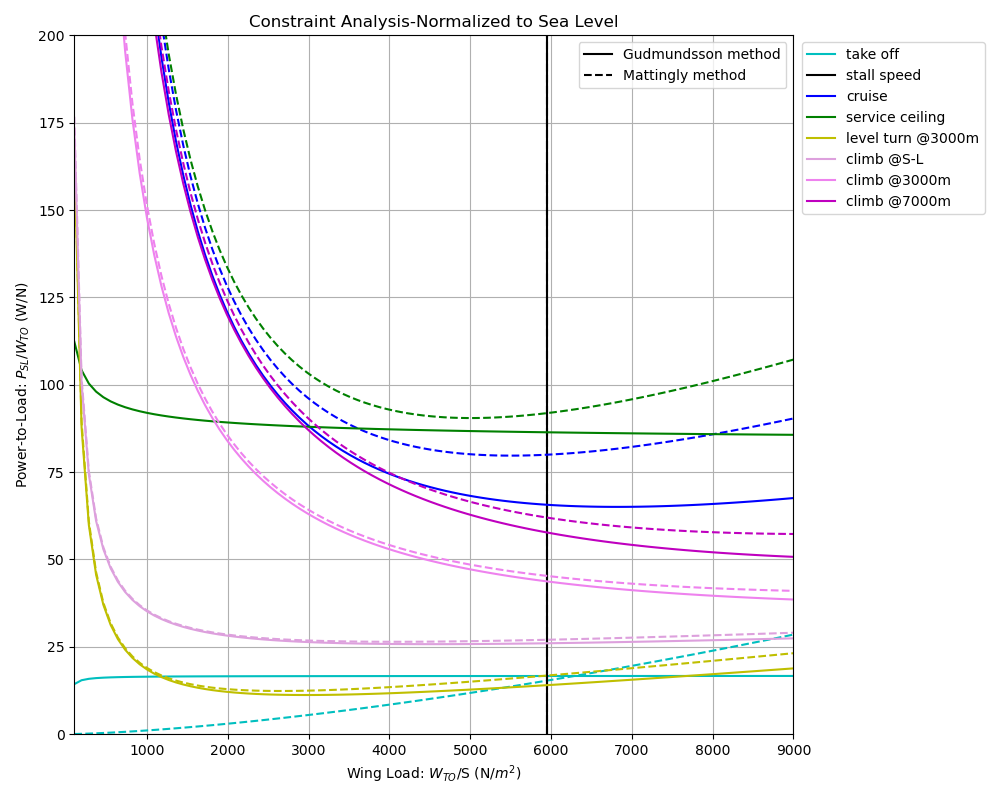
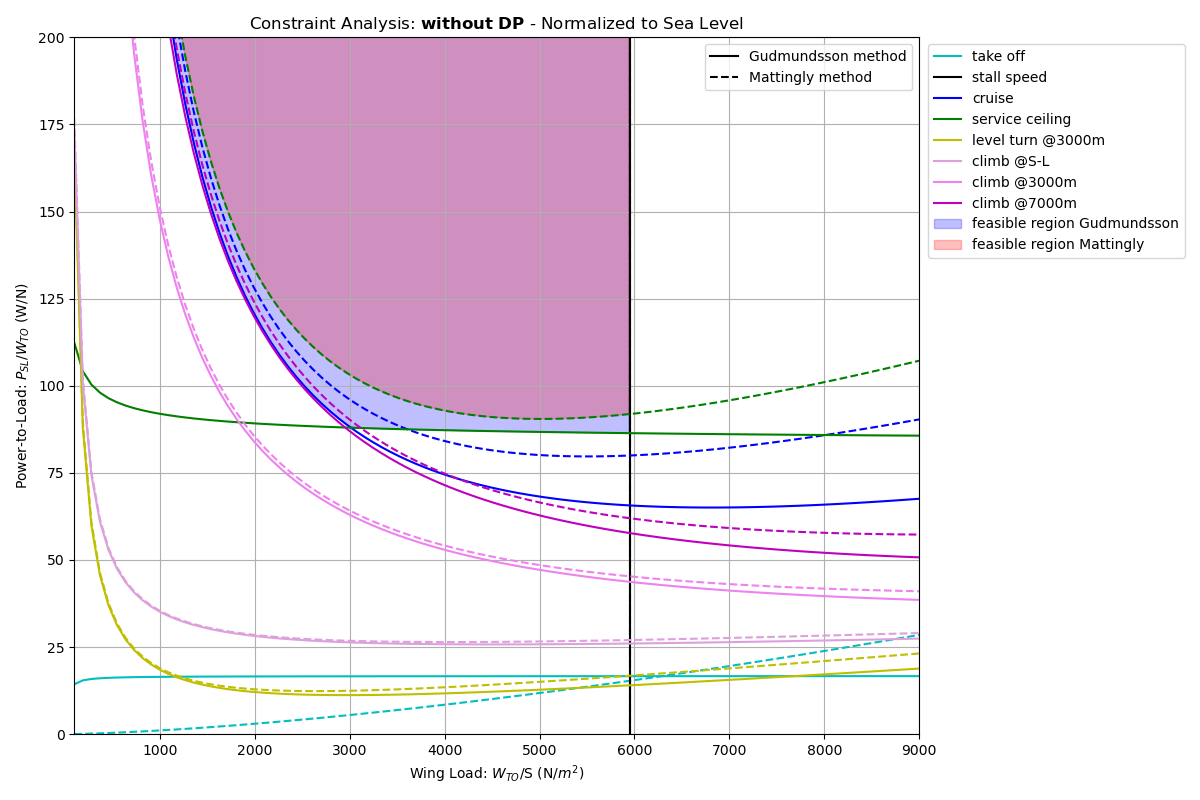
Default Changelist

diff --git a/Sizing_Method/ConstrainsAnalysis/ConstrainsAnalysisPD.py b/Sizing_Method/ConstrainsAnalysis/ConstrainsAnalysisPD.py
@@ -6,10 +6,13 @@ import matplotlib.pylab as plt
 import Sizing_Method.Other.US_Standard_Atmosphere_1976 as atm
 import Sizing_Method.Aerodynamics.ThrustLapse as thrust_lapse
 import Sizing_Method.Aerodynamics.Aerodynamics as ad
+import Sizing_Method.ConstrainsAnalysis.ConstrainsAnalysis as ca
+
 
 """
 The unit use is IS standard
 """
+
 
 class ConstrainsAnalysis_Mattingly_Method_with_DP:
     """This is a power-based master constraints analysis"""
@@ -55,14 +58,16 @@ class ConstrainsAnalysis_Mattingly_Method_with_DP:
         self.coefficient = self.tau * self.beta * self.v / self.alpha
 
         # Estimation of ΔCL and ΔCD
-        pd = ad.aerodynamics_with_pd(self.h, self.v, Hp=0.5, n=n, W_S=self.w_s)
+        pd = ad.aerodynamics_with_pd(self.h, self.v, Hp=self.hp, n=n, W_S=self.w_s)
         self.q = 0.5 * self.rho * self.v ** 2
         self.cl = self.beta * self.w_s / self.q
+        # print(self.cl)
         self.delta_cl = pd.delta_lift_coefficient(self.cl)
         self.delta_cd0 = pd.delta_CD_0()
 
     def master_equation(self, n, dh_dt, dV_dt):
         cl = self.cl*n + self.delta_cl
+
         cd = self.k1 * cl ** 2 + self.k2 * cl + self.cd0 + self.cdr + self.delta_cd0
         p_w = self.coefficient * (self.q / (self.beta * self.w_s) * cd + dh_dt / self.v + dV_dt / self.g0)
         return p_w
@@ -153,7 +158,7 @@ class ConstrainsAnalysis_Gudmundsson_Method_with_DP:
         self.coefficient = self.tau * self.beta * self.v / self.alpha
 
         # Estimation of ΔCL and ΔCD
-        pd = ad.aerodynamics_with_pd(self.h, self.v, Hp=0.5, n=n, W_S=self.w_s)
+        pd = ad.aerodynamics_with_pd(self.h, self.v, Hp=self.hp, n=n, W_S=self.w_s)
         self.q = 0.5 * self.rho * self.v ** 2
         cl = self.beta * self.w_s / self.q
         self.delta_cl = pd.delta_lift_coefficient(cl)
@@ -175,11 +180,11 @@ class ConstrainsAnalysis_Gudmundsson_Method_with_DP:
         self.cl_to = cl_to + self.delta_cl
 
     def cruise(self):
-        p_w = self.q * self.cd_min / self.w_s + self.k *self.cl
+        p_w = self.q / self.w_s * (self.cd_min + self.k * self.cl**2)
         return p_w * self.coefficient
 
     def climb(self, roc):
-        p_w = roc / self.v + self.q * self.cd_min / self.w_s + self.k *self.cl
+        p_w = roc / self.v + self.q * self.cd_min / self.w_s + self.k * self.cl
         return p_w * self.coefficient
 
     def level_turn(self, turn_rate=3, v=100):
@@ -199,8 +204,11 @@ class ConstrainsAnalysis_Gudmundsson_Method_with_DP:
         return p_w * self.coefficient
 
     def service_ceiling(self, roc=0.5):
-        p_w = roc / (2 / self.rho * self.w_s * (self.k / (3 * self.cd_min)) ** 0.5) ** 0.5 + 4 * (
-                self.k * self.cd_min / 3) ** 0.5
+        vy = (2/self.rho*self.w_s*(self.k/(3*self.cd_min))**0.5)**0.5
+        q = 0.5*self.rho*vy**2
+        p_w = roc/vy + q/self.w_s*(self.cd_min+self.k*(self.w_s/q + self.delta_cl)**2)
+        # p_w = roc / (2 / self.rho * self.w_s * (self.k / (3 * self.cd_min)) ** 0.5) ** 0.5 + 4 * (
+        #         self.k * self.cd_min / 3) ** 0.5
         return p_w * self.coefficient
 
     def stall_speed(self, V_stall_to=65, Cl_max_to=2.3):
@@ -226,40 +234,69 @@ if __name__ == "__main__":
                            [11900, 230, 0.948], [3000, 100, 0.984], [0, 100, 0.984],
                            [3000, 200, 0.975], [7000, 230, 0.96]])
     color = ['c', 'k', 'b', 'g', 'y', 'plum', 'violet', 'm']
+    label = ['feasible region with PD', 'feasible region with PD','feasible region Gudmundsson',
+             'feasible region without PD', 'feasible region without PD', 'feasible region Mattingly']
     m = constrains.shape[0]
     p_w = np.zeros([2 * m, n])
 
-    plt.figure(figsize=(10, 8))
-    for i in range(m):
-        for j in range(n):
-            h = constrains[i, 0]
-            v = constrains[i, 1]
-            beta = constrains[i, 2]
-            problem1 = ConstrainsAnalysis_Gudmundsson_Method_with_DP(h, v, beta, w_s[j])
-            problem2 = ConstrainsAnalysis_Mattingly_Method_with_DP(h, v, beta, w_s[j])
+    for k in range(3):
+        plt.figure(figsize=(12, 8))
+        for i in range(m):
+            for j in range(n):
+                h = constrains[i, 0]
+                v = constrains[i, 1]
+                beta = constrains[i, 2]
 
-            if i >= 5:
-                p_w[i, j] = problem1.allFuncs[-1](problem1, roc=15 - 5 * (i - 5))
-                p_w[i + m, j] = problem2.allFuncs[-1](problem2, roc=15 - 5 * (i - 5))
+                if k == 0:
+                    problem1 = ConstrainsAnalysis_Gudmundsson_Method_with_DP(h, v, beta, w_s[j])
+                    problem2 = ca.ConstrainsAnalysis_Gudmundsson_Method(h, v, beta, w_s[j])
+                    plt.title(r'Constraint Analysis: $\bf{Gudmundsson-Method}$ - Normalized to Sea Level')
+                elif k ==1:
+                    problem1 = ConstrainsAnalysis_Mattingly_Method_with_DP(h, v, beta, w_s[j])
+                    problem2 = ca.ConstrainsAnalysis_Mattingly_Method(h, v, beta, w_s[j])
+                    plt.title(r'Constraint Analysis: $\bf{Mattingly-Method}$ - Normalized to Sea Level')
+                else:
+                    problem1 = ConstrainsAnalysis_Gudmundsson_Method_with_DP(h, v, beta, w_s[j])
+                    problem2 = ConstrainsAnalysis_Mattingly_Method_with_DP(h, v, beta, w_s[j])
+                    plt.title(r'Constraint Analysis: $\bf{with}$ $\bf{DP}$ - Normalized to Sea Level')
+
+                if i >= 5:
+                    p_w[i, j] = problem1.allFuncs[-1](problem1, roc=15 - 5 * (i - 5))
+                    p_w[i + m, j] = problem2.allFuncs[-1](problem2, roc=15 - 5 * (i - 5))
+                else:
+                    p_w[i, j] = problem1.allFuncs[i](problem1)
+                    p_w[i + m, j] = problem2.allFuncs[i](problem2)
+
+            if i == 1:
+                l1a, = plt.plot(p_w[i, :], np.linspace(0, 250, n), color=color[i], label=constrains_name[i])
+                l1b, = plt.plot(p_w[i + m, :], np.linspace(0, 250, n), color=color[i], linestyle='--')
+
+                if k != 2:
+                    l1 = plt.legend([l1a, l1b], ['with DP', 'without DP'], loc="upper right")
+                else:
+                    l1 = plt.legend([l1a, l1b], ['Gudmundsson method', 'Mattingly method'], loc="upper right")
+
             else:
-                p_w[i, j] = problem1.allFuncs[i](problem1)
-                p_w[i + m, j] = problem2.allFuncs[i](problem2)
+                plt.plot(w_s, p_w[i, :], color=color[i], label=constrains_name[i])
+                plt.plot(w_s, p_w[i + m, :], color=color[i], linestyle='--')
 
-        if i == 1:
-            pa, = plt.plot(p_w[i, :], np.linspace(0, 250, n), color=color[i], label=constrains_name[i])
-            pb, = plt.plot(p_w[i + m, :], np.linspace(0, 250, n), color=color[i], linestyle='--')
-            l1 = plt.legend([pa, pb], ['Gudmundsson method', 'Mattingly method'], loc="upper right")
+        p_w[1, :] = 200 / (p_w[1, -1] - p_w[1, 20]) * (w_s - p_w[1, 2])
+
+        if k != 2:
+            p_w[1 + m, :] = 10 ** 10 * (w_s - p_w[1 + m, 2])
         else:
-            plt.plot(w_s, p_w[i, :], color=color[i], label=constrains_name[i])
-            plt.plot(w_s, p_w[i + m, :], color=color[i], linestyle='--')
+            p_w[1 + m, :] = 200 / (p_w[1+m, -1] - p_w[1+m, 20]) * (w_s - p_w[1 + m, 2])
 
-    plt.xlabel('Wing Load: $W_{TO}$/S (N/${m^2}$)')
-    plt.ylabel('Power-to-Load: $P_{SL}$/$W_{TO}$ (W/N)')
-    plt.title('Constraint Analysis-Normalized to Sea Level')
-    plt.legend(bbox_to_anchor=(1.002, 1), loc="upper left")
-    plt.gca().add_artist(l1)
-    plt.xlim(100, 9000)
-    plt.ylim(0, 200)
-    plt.tight_layout()
-    plt.grid()
-    plt.show()
+        plt.fill_between(w_s, np.amax(p_w[0:m - 1, :], axis=0), 200, color='b', alpha=0.25,
+                        label=label[k])
+        plt.fill_between(w_s, np.amax(p_w[m:2 * m - 1, :], axis=0), 200, color='r', alpha=0.25,
+                        label=label[k+3])
+        plt.xlabel('Wing Load: $W_{TO}$/S (N/${m^2}$)')
+        plt.ylabel('Power-to-Load: $P_{SL}$/$W_{TO}$ (W/N)')
+        plt.legend(bbox_to_anchor=(1.002, 1), loc="upper left")
+        plt.gca().add_artist(l1)
+        plt.xlim(100, 9000)
+        plt.ylim(0, 200)
+        plt.tight_layout()
+        plt.grid()
+        plt.show()

diff --git a/Sizing_Method/ConstrainsAnalysis/ConstrainsAnalysis.py b/Sizing_Method/ConstrainsAnalysis/ConstrainsAnalysis.py
@@ -180,8 +180,24 @@ class ConstrainsAnalysis_Gudmundsson_Method:
         return p_w * self.coefficient
 
     def service_ceiling(self, roc=0.5):
+        """
+        t_w = 0.3
+        s = 124
+        cd_max = 0.04
+
+        l = 0.5 * self.rho * self.v ** 2 * s * self.w_s / self.q
+        d_max = 0.5 * self.rho * self.v ** 2 * s * cd_max
+
+        # eqaution 18-24: Airspeed for Best ROC for a Jet
+        vy = (t_w * self.w_s / (3 * self.rho * self.cd_min) * (1 + (1 + 3 / (l * d_max ** 2 * t_w ** 2)) ** 0.5)) ** 0.5
+
+        q = 0.5 * self.rho * vy ** 2
+
+        p_w = roc / self.v + q / self.w_s * (self.cd_min + self.k * (self.w_s / q) ** 2)
+        """
+
         p_w = roc / (2 / self.rho * self.w_s * (self.k / (3 * self.cd_min)) ** 0.5) ** 0.5 + 4 * (
-                self.k * self.cd_min / 3) ** 0.5
+               self.k * self.cd_min / 3) ** 0.5
         return p_w * self.coefficient
 
     def stall_speed(self, V_stall_to=65, Cl_max_to=2.3):
@@ -301,7 +317,7 @@ if __name__ == "__main__":
     m = constrains.shape[0]
     p_w = np.zeros([2 * m, n])
 
-    plt.figure(figsize=(10, 8))
+    plt.figure(figsize=(12, 8))
     for i in range(m):
         for j in range(n):
             h = constrains[i, 0]
@@ -325,9 +341,16 @@ if __name__ == "__main__":
             plt.plot(w_s, p_w[i, :], color=color[i], label=constrains_name[i])
             plt.plot(w_s, p_w[i + m, :], color=color[i], linestyle='--')
 
+    p_w[1, :] = 10 ** 10 * (w_s - p_w[1, 2])
+
+    p_w[1 + m, :] = 10 ** 10 * (w_s - p_w[1 + m, 2])
+    plt.fill_between(w_s, np.amax(p_w[0:m - 1, :], axis=0), 200, color='b', alpha=0.25,
+                     label='feasible region Gudmundsson')
+    plt.fill_between(w_s, np.amax(p_w[m:2 * m - 1, :], axis=0), 200, color='r', alpha=0.25,
+                     label='feasible region Mattingly')
     plt.xlabel('Wing Load: $W_{TO}$/S (N/${m^2}$)')
     plt.ylabel('Power-to-Load: $P_{SL}$/$W_{TO}$ (W/N)')
-    plt.title('Constraint Analysis-Normalized to Sea Level')
+    plt.title(r'Constraint Analysis: $\bf{without}$ $\bf{DP}$ - Normalized to Sea Level')
     plt.legend(bbox_to_anchor=(1.002, 1), loc="upper left")
     plt.gca().add_artist(l1)
     plt.xlim(100, 9000)

diff --git a/Sizing_Method/Aerodynamics/Aerodynamics.py b/Sizing_Method/Aerodynamics/Aerodynamics.py
@@ -83,7 +83,7 @@ class aerodynamics_with_pd:
     """Estimation of ΔCL and ΔCD"""
 
     def __init__(self, altitude, velocity, Hp, n, W_S, P_W=90, sweep_angle=25.0,
-                 S=124.0, b=35.8, delta_b=0.5, delta_Dp=0.1, xp=0.5, beta=0.8, AOA_p=0.0, Cf=0.009):
+                 S=124.0, b=35.8, delta_b=0.64, delta_Dp=0.1, xp=0.5, beta=0.6, AOA_p=0.0, Cf=0.009):
         """
 
         :param Hp: P_motor/P_total
@@ -131,6 +131,14 @@ class aerodynamics_with_pd:
         # thrust coefficient Tc of the DP propulsion
         # reference 1: Equation 24
         tc = 1 / self.n * Hp * self.t_w / (self.rho * self.v ** 2 * dp2w)
+
+        # Actuator disk theory shows that there is a maximum theoretical propulsive efficiency
+        # for a given thrust coefficient
+        ndp_isolated = 0.76
+        tc_max = np.pi / 8 * ((2 / ndp_isolated - 1) ** 2 - 1)
+
+        if tc >= tc_max:
+            tc = tc_max
 
         # axial induction factor at the propeller disk (ap) as a
         # function of the propeller thrust coefficient, from the actuator disk theory:

diff --git a/Sizing_Method/Aerodynamics/Aeropropulsive_Interaction_Model.py b/Sizing_Method/Aerodynamics/Aeropropulsive_Interaction_Model.py
@@ -90,7 +90,17 @@ class Aero_propulsion:
         # thrust coefficient Tc of the DP propulsion
         # reference 1: Equation 24
         tc = 1 / self.n * Hp * self.t_w / (self.rho * self.v ** 2 * dp2w)
+
+        # Actuator disk theory shows that there is a maximum theoretical propulsive efficiency
+        # for a given thrust coefficient
+        ndp_isolated = 0.76
+        tc_max = np.pi / 8 * ((2 / ndp_isolated - 1) ** 2 - 1)
+
+        if tc >= tc_max:
+            tc = tc_max
+
         print(tc)
+
         #tc = 0.611  # check whether the model is accurate
 
         # axial induction factor at the propeller disk (ap) as a

diff --git a/Sizing_Method/test2.py b/Sizing_Method/test2.py
@@ -4,7 +4,7 @@ import numpy as np
 import Sizing_Method.Other.US_Standard_Atmosphere_1976 as atm
 import Sizing_Method.Aerodynamics.ThrustLapse as thrust_lapse
 
-
+# ΑΒΓΔ ΕΖΗΘ ΙΚΛΜ ΝΞΟΠ ΡΣΤΥ ΦΧΨΩ αβγδ εζηθ ικλμ νξοπ ρςτυ φχψω
 a = np.linspace(1, 10, 100)
 # print(a[0])
 
@@ -19,6 +19,7 @@ c = [(1,2,3), (5,6,7)]
 
 
 input_list = [[20, 0], [100, 1000], [300, 2000]]
+print(np.max())
 velocity, altitude = [], []
 for i, element in enumerate(input_list):
     # print(i, element)
